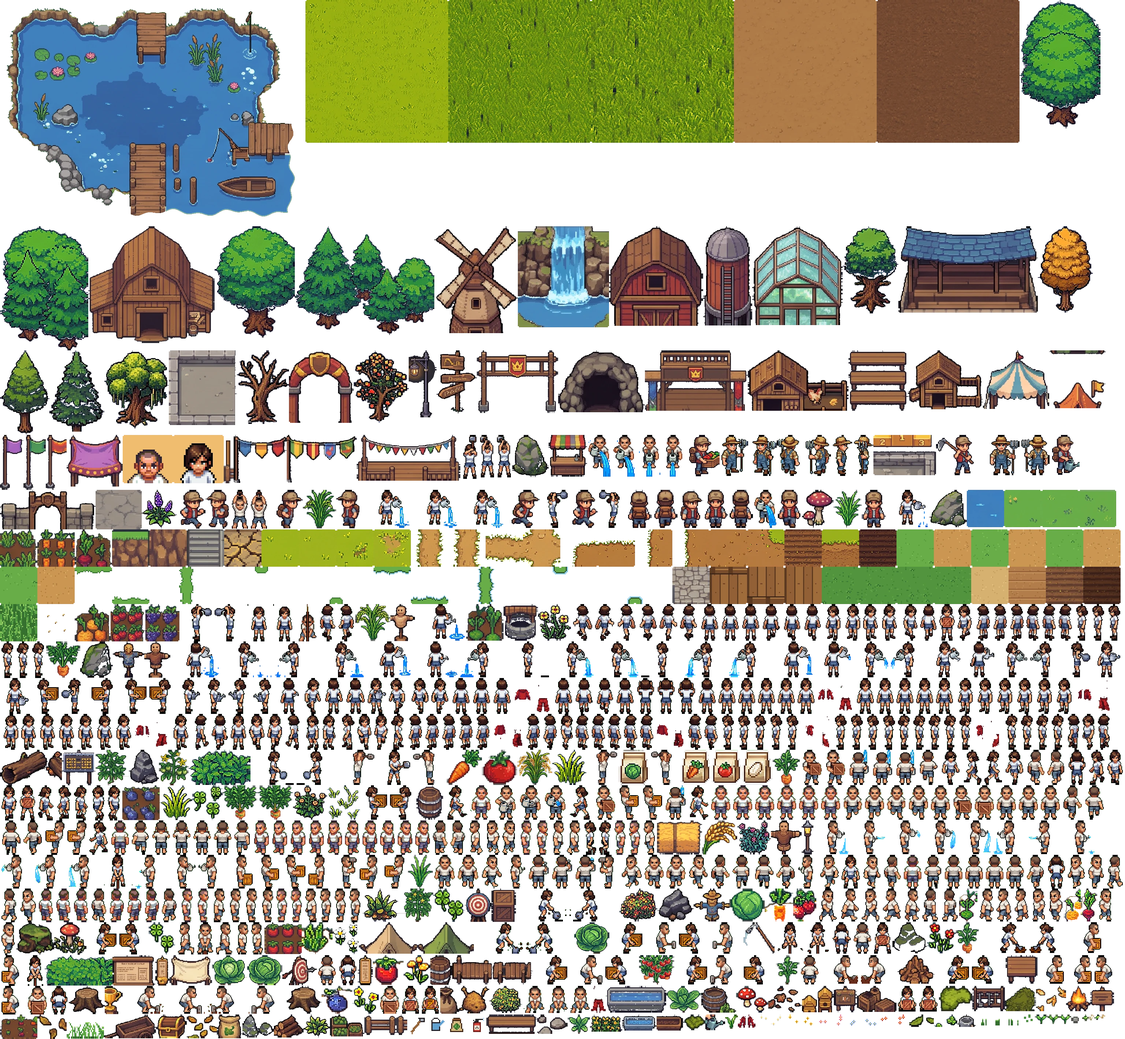
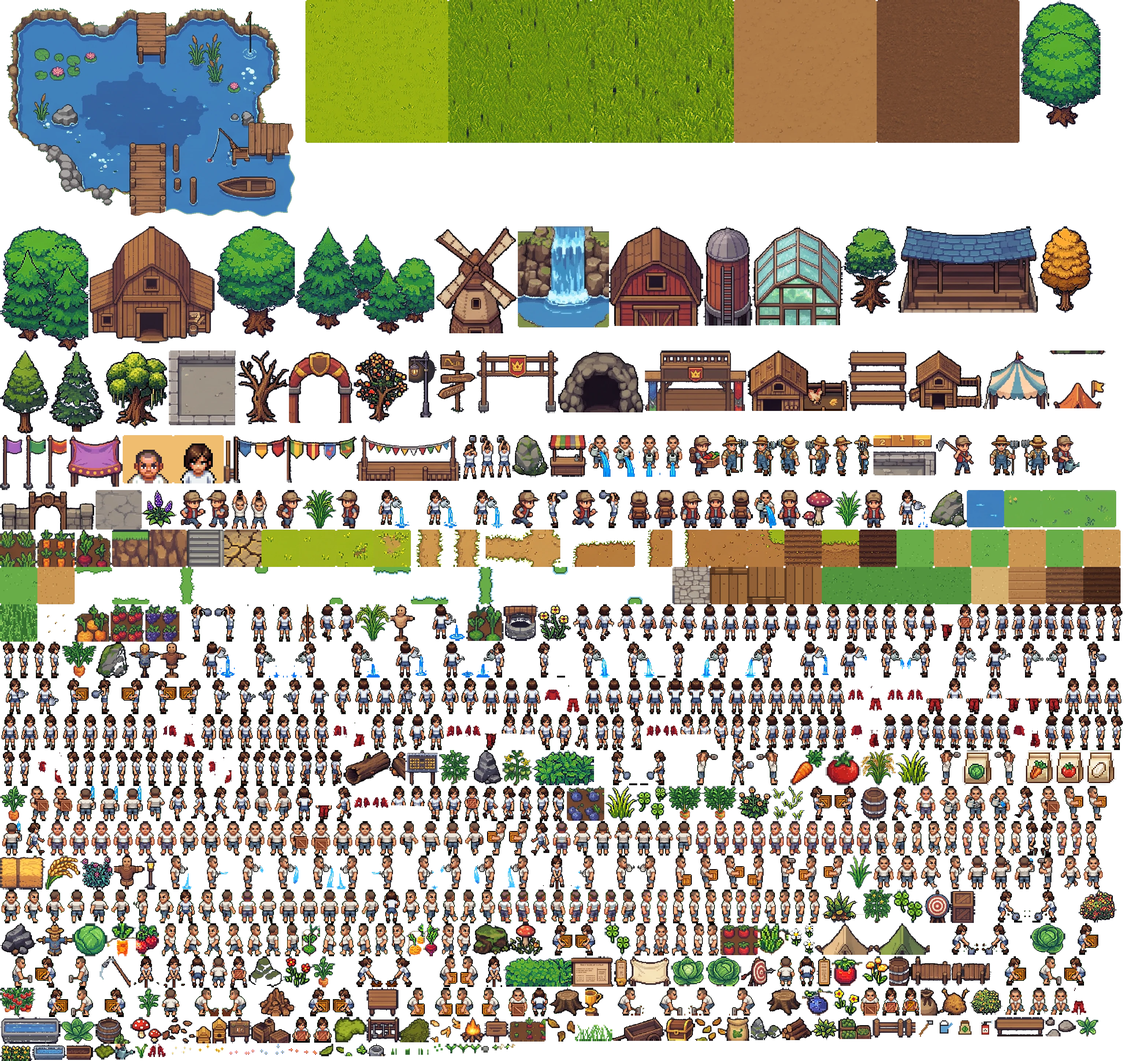
Quần áo khi đi xuống: áo khoác ghép từng khung, quần thay cả phần thân dưới (bỏ chân gốc dưới eo) để không lệch nhịp bước
Claude-Session: https://claude.ai/code/session_01BbaPnx3cHQqz9kHRAFFL9w

diff --git a/client/src/main.ts b/client/src/main.ts
@@ -534,13 +534,17 @@ function render(time: number) {
 
   for (const d of list) {
     if (d.name.startsWith(player.sprite + '_')) {
-      // protagonist + clothing layers. Clothes exist only for the standing pose
-      // so far (one layer per direction): drawn over the idle frames.
-      drawAnchored(ctx, atlas, d.name, d.x, d.y, d.flip);
-      const m = /_(\d)_i\d+$/.exec(d.name);
+      // protagonist + clothing layers: wr_<id>_<d> (standing) / wr_<id>_<d>_w<i>
+      // (walking). Pants replace the lower body while walking: the body is drawn
+      // without its legs (wrb_...) and the pants frame brings its own legs.
+      const m = /_(\d)_([iw])(\d+)$/.exec(d.name);
+      const wear = store.st.wear || {};
+      let body = d.name;
+      if (m && m[2] === 'w' && wear.pants && atlas.frames[`wrb_${wear.pants}_${m[1]}_w${m[3]}`]) body = `wrb_${wear.pants}_${m[1]}_w${m[3]}`;
+      drawAnchored(ctx, atlas, body, d.x, d.y, d.flip);
       if (m) for (const sl of WEAR_ORDER) {
-        const id = store.st.wear?.[sl];
-        if (id) drawAnchored(ctx, atlas, `wr_${id}_${m[1]}`, d.x, d.y, d.flip);
+        const id = wear[sl];
+        if (id) drawAnchored(ctx, atlas, m[2] === 'i' ? `wr_${id}_${m[1]}` : `wr_${id}_${m[1]}_w${m[3]}`, d.x, d.y, d.flip);
       }
       continue;
     }

diff --git a/tools/wear_cut.py b/tools/wear_cut.py
@@ -50,10 +50,27 @@ def nearest_colour(layer, x, y, max_r=2):
     return None
 
 
-def cut_direction(src, base, is_cloth):
-    jb = src.getchannel('A').getbbox(); bb = base.getchannel('A').getbbox()
-    dx = (bb[0] + bb[2]) // 2 - (jb[0] + jb[2]) // 2
-    dy = bb[3] - jb[3]
+def best_offset(src, base, r=2):
+    """same-canvas animation frames: the small shift where the silhouettes overlap most"""
+    sa, ba = src.getchannel('A').load(), base.getchannel('A').load()
+    W, H = base.size
+    pts = [(x, y) for y in range(H) for x in range(W) if sa[x, y]]
+    best = (-1, 0, 0)
+    for dy in range(-r, r + 1):
+        for dx in range(-r, r + 1):
+            n = sum(1 for x, y in pts if 0 <= x + dx < W and 0 <= y + dy < H and ba[x + dx, y + dy])
+            if n > best[0]:
+                best = (n, dx, dy)
+    return best[1], best[2]
+
+
+def cut_direction(src, base, is_cloth, same_canvas=False):
+    if same_canvas:
+        dx, dy = best_offset(src, base)
+    else:
+        jb = src.getchannel('A').getbbox(); bb = base.getchannel('A').getbbox()
+        dx = (bb[0] + bb[2]) // 2 - (jb[0] + jb[2]) // 2
+        dy = bb[3] - jb[3]
     al = Image.new('RGBA', base.size, (0, 0, 0, 0)); al.alpha_composite(src, (dx, dy))
     sp, bp = al.load(), base.load()
     W, H = base.size
@@ -148,11 +165,76 @@ def check_order(im, base_folder):
             print(f'  ! frame {j} looks like direction {best} ({sc[best]:.2f} vs {sc[j]:.2f})')
 
 
+def cut_lower(d0, base_folder, is_cloth, act):
+    """Pants: the redrawn legs follow their own step cycle, so a layer over the
+    base legs can't fit. Instead the game hides the base body below the waist and
+    draws the source's whole lower body (pants, shoes, hands) from its own frame i.
+    -> <act>_<d>_<i>.png (lower body) + <act>_<d>.waist (waist row per frame)"""
+    for d in range(8):
+        sp = os.path.join(d0, f'{act}_{d}.gif')
+        if not os.path.exists(sp):
+            continue
+        src, base = Image.open(sp), Image.open(os.path.join(ROOT, 'assets/source', base_folder, f'{act}_{d}.gif'))
+        waists = []
+        for i in range(min(src.n_frames, base.n_frames)):
+            src.seek(i); base.seek(i)
+            sf, bf = src.convert('RGBA'), base.convert('RGBA')
+            dx, dy = best_offset(sf, bf)
+            al = Image.new('RGBA', bf.size, (0, 0, 0, 0)); al.alpha_composite(sf, (dx, dy))
+            ap = al.load(); W, H = al.size
+            per_row = Counter(y for y in range(H) for x in range(W) if ap[x, y][3] and is_cloth(ap[x, y]))
+            waist = min(y for y, n in per_row.items() if n >= 4)   # ignore a stray red dot higher up
+            layer = Image.new('RGBA', bf.size, (0, 0, 0, 0)); lp = layer.load()
+            for y in range(waist, H):
+                for x in range(W):
+                    if ap[x, y][3]:
+                        lp[x, y] = ap[x, y]
+            layer.save(os.path.join(d0, f'{act}_{d}_{i}.png'))
+            waists.append(waist)
+        open(os.path.join(d0, f'{act}_{d}.waist'), 'w').write(' '.join(map(str, waists)))
+        print(f'  {act}_{d}: lower body from own frames, waist rows {waists}')
+
+
+def cut_anim(d0, base_folder, is_cloth, act):
+    """<act>_<d>.gif in the item folder = the base animation <act>_<d>.gif redrawn
+    wearing the item (same 68px canvas, same frame count) -> <act>_<d>_<i>.png"""
+    for d in range(8):
+        sp = os.path.join(d0, f'{act}_{d}.gif')
+        if not os.path.exists(sp):
+            continue
+        src, base = Image.open(sp), Image.open(os.path.join(ROOT, 'assets/source', base_folder, f'{act}_{d}.gif'))
+        if src.n_frames != base.n_frames:
+            print(f'  ! {act}_{d}: {src.n_frames} frames, base has {base.n_frames}')
+        sfr = []
+        for i in range(src.n_frames):
+            src.seek(i); sfr.append(src.convert('RGBA'))
+        res, pick = [], []
+        for i in range(base.n_frames):
+            base.seek(i); bf = base.convert('RGBA')
+            # the redrawn cycle may be out of step with the base one: use the
+            # source frame whose silhouette (legs included) fits this base frame best
+            def fit(f):
+                dx, dy = best_offset(f, bf)
+                sa, ba = f.getchannel('A').load(), bf.getchannel('A').load()
+                W, H = bf.size
+                a = {(x + dx, y + dy) for y in range(H) for x in range(W) if sa[x, y]}
+                b = {(x, y) for y in range(H) for x in range(W) if ba[x, y]}
+                return len(a & b) / len(a | b)
+            j = max(range(len(sfr)), key=lambda k: fit(sfr[k]) + (0.01 if k == i else 0))
+            layer, leaks, specks = cut_direction(sfr[j], bf, is_cloth, same_canvas=True)
+            layer.save(os.path.join(d0, f'{act}_{d}_{i}.png'))
+            res.append(leaks + specks); pick.append(j)
+        print(f'  {act}_{d}: base frame -> source frame {pick}, pixels fixed {res}')
+
+
 def main(item, base_folder, rule='red'):
     d0 = os.path.join(ROOT, 'assets/source/wear', item)
     im = Image.open(os.path.join(d0, 'turnaround.gif'))
     is_cloth = RULES[rule]
     out = []
+    lower = 'pants' in item                      # pants replace the lower body
+    for act in ('walk',):
+        (cut_lower if lower else cut_anim)(d0, base_folder, is_cloth, act)
     check_order(im, base_folder)
     for d in range(8):
         im.seek(d); src = im.convert('RGBA')

diff --git a/tools/build_assets.py b/tools/build_assets.py
@@ -359,6 +359,38 @@ def cut_char2(folder='char2', prefix='pl4'):
             out[f'wr_{item}_{d}'] = wim
             if d == 0:                               # icon: the garment alone, front view
                 out[f'wri_{item}'] = L.crop(lb)
+        # clothing on the walk cycle: wr_<id>_<d>_w<i> (+ for pants, which replace
+        # the lower body: wrb_<id>_<d>_w<i> = the body frame without its legs)
+        for item in sorted(os.listdir(wdir)) if os.path.isdir(wdir) else []:
+            if not item.endswith(sfx):
+                continue
+            wp = os.path.join(wdir, item, f'walk_{d}.waist')
+            waist = list(map(int, open(wp).read().split())) if os.path.exists(wp) else None
+            for i, f in enumerate(walk):
+                lpth = os.path.join(wdir, item, f'walk_{d}_{i}.png')
+                if not os.path.exists(lpth):
+                    continue
+                L = Image.open(lpth).convert('RGBA')
+                L = L.resize((L.width * 2, L.height * 2), Image.NEAREST)
+                fb = f.getchannel('A').getbbox()
+                hwf = max(cx - fb[0], fb[2] - cx) + 1
+                lb = L.getchannel('A').getbbox()
+                hw = max(hwf, cx - lb[0] + 1, lb[2] - cx + 1); hw += (hw - hwf) % 2
+                top, bot = min(lb[1], fb[1]), max(lb[3], fb[3])
+                wim = Image.new('RGBA', (hw * 2, bot - top), (0, 0, 0, 0))
+                wim.paste(L.crop((cx - hw, top, cx + hw, bot)), (0, 0))
+                # canvas bottom = the body frame's bottom; anything lower is an anchor offset
+                out[f'wr_{item}_{d}_w{i}'] = wim
+                if bot > fb[3]:
+                    ANCHORS[f'wr_{item}_{d}_w{i}'] = bot - fb[3]
+                if waist:
+                    body = f.copy(); bp = body.load()
+                    for y in range(waist[i] * 2, body.height):
+                        for x in range(body.width):
+                            bp[x, y] = (0, 0, 0, 0)
+                    bim = Image.new('RGBA', (hwf * 2, fb[3] - fb[1]), (0, 0, 0, 0))
+                    bim.paste(body.crop(fb), (hwf - (cx - fb[0]), 0))
+                    out[f'wrb_{item}_{d}_w{i}'] = bim
         for i, f in enumerate(walk):
             out[f'{prefix}_{d}_w{i}'] = place(f, cx)
         # harvest (pick up a crate): same canvas position as the idle frames,
